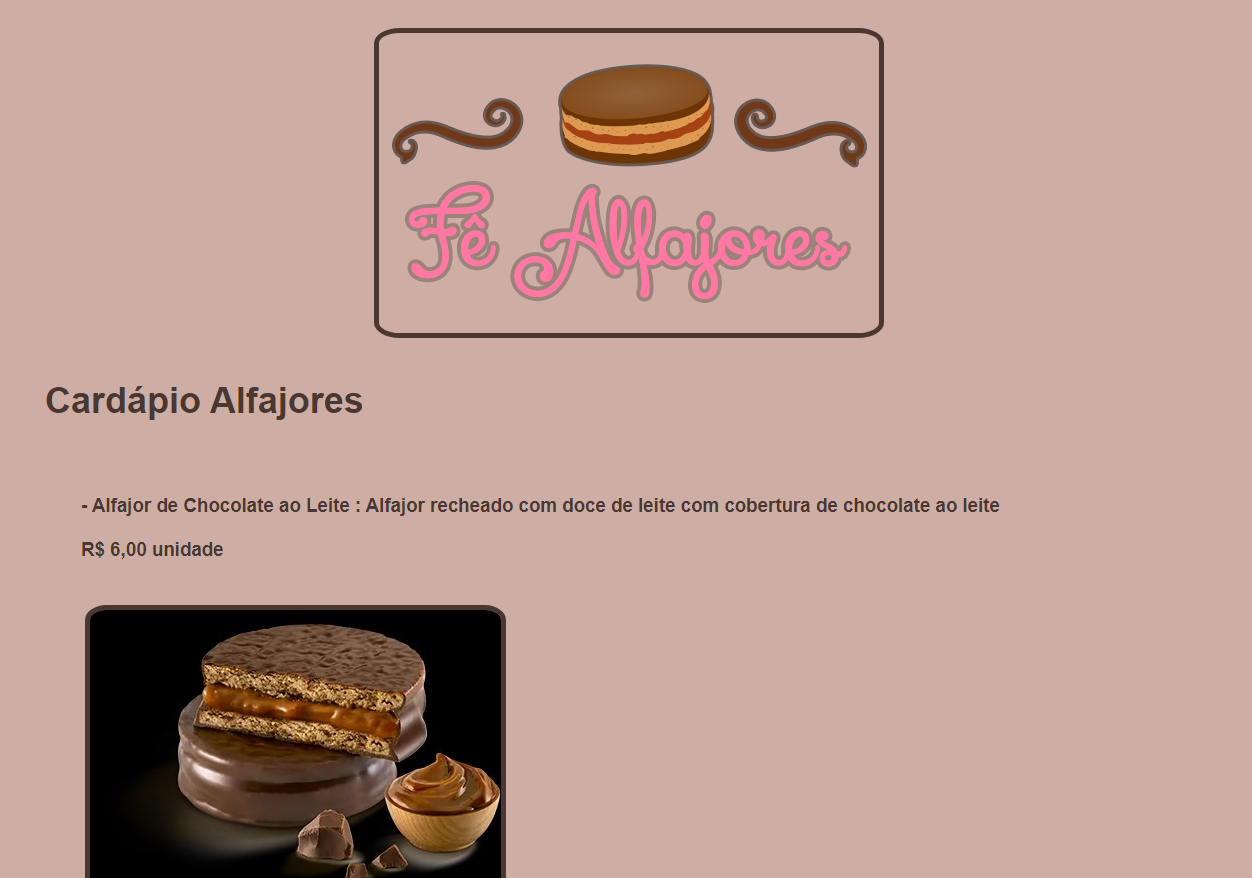
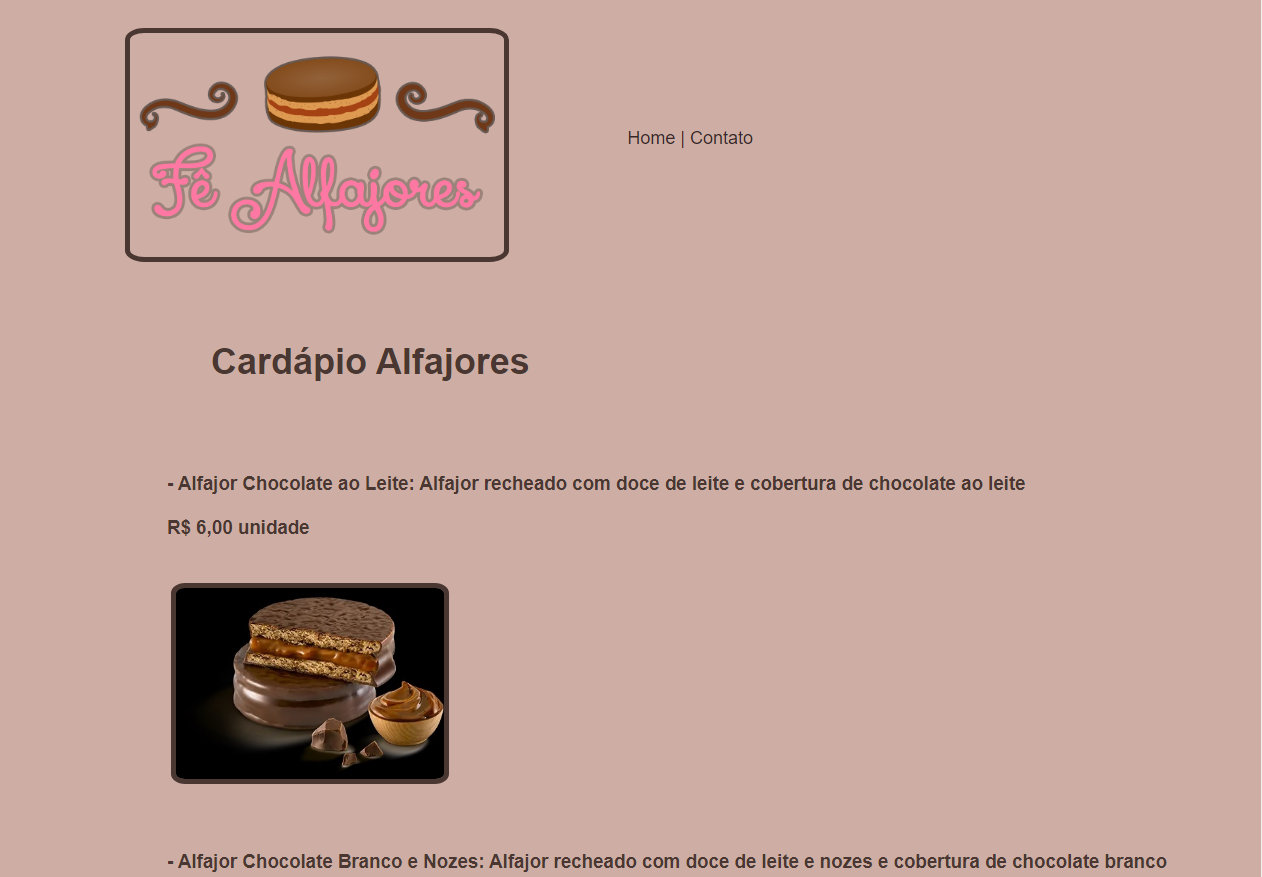
Add files via upload

Changed region(s): [[0.0623, 0.5234, 0.9345, 1.0], [0.0312, 0.0308, 0.7165, 0.4926], [0.9968, 0.0, 1.0, 1.0]]

diff --git a/projetos.html b/projetos.html
@@ -11,7 +11,7 @@
     <body>
         <nav>
             <ul> 
-                <li><a href="index.html">Sobre mim</a></li>
+                <li><a href="index.html">Home</a></li>
                 <li><a href="projetos.html">Projetos</a></li>
                 <li><a href="contato.html">Contato</a></li>
             </ul>
@@ -25,22 +25,31 @@
                 <h1>Meus Projetos</h1>
                 
         </header>
-        <br/>
+        <br>
         <main>
                 <section>
                     <h3>- Desafio do Cardápio</h3>
-                    <p>Site de um cardápio contendo os produtos, sua descrição e seu valor.<br>HTML5, CSS3</p>
+                    <p>Site de um cardápio com os produtos, descrição e valor.<br>HTML5, CSS3</p>
                     <a href="https://fevitorio.github.io/Cardapio/">
-                    <img src="./img/telacardapio.png"></img>  </a> 
+                    <img src="./img/telacardapio.png"></img></a> 
                     
                 </section>
+                <br/>
+                <br>
+                <section>
+                    <h3>- Engenharia</h3>
+                    <p>Site para empresa de Engenharia Civil. <br> HTML5, CSS3, JavaScript</p>
+                    <a href="https://fevitorio.github.io/eng.gustavovitorio/">
+                    <img src="./img/telaeng.png"></img></a> 
+                    
+                </section> 
                 <br/>
                 <br>
                 <section>
                     <h3>- Loja de Roupas</h3>
                     <p>Site para loja de roupas fitness para treino. <br> HTML5, CSS3, JavaScript</p>
                     <a href="https://fevitorio.github.io/Fitness/">
-                    <img src="./img/telafitness.png"></img>  </a> 
+                    <img src="./img/telafitness.png"></img></a> 
                     
                 </section> 
                 

diff --git a/style.css b/style.css
@@ -1,7 +1,8 @@
 body {
     color: black;
     background-color: rgb(252, 229, 240);
-    font-family: 'Trebuchet MS', 'Lucida Sans Unicode', 'Lucida Grande', 'Lucida Sans', Arial, sans-serif ;
+    font-family: Arial, Helvetica, sans-serif;
+    font-size: 18px;
 }
 
 ul {
@@ -23,7 +24,7 @@ header img {
     width: 150px;
     height: 150px;
     border-radius: 10%;
-    border: 3px solid rgb(206, 48, 145);
+    border: 3px solid rgb(211, 131, 180);
 }
 
 .center {
@@ -32,7 +33,7 @@ header img {
 }
 
 h1 {
-    color: rgb(206, 48, 145);
+    color: rgb(211, 131, 180);
 }
 
 footer img {
@@ -59,25 +60,25 @@ footer p {
 }
 
 nav a:hover {
-    color:rgb(206, 48, 145);
+    color:rgb(211, 131, 180);
 }
 
 input{
     width: 100%;
     padding: 8px 0px;
     margin: 8px 0px;
-    border-radius: 3px;
+    border-radius: 1px;
 }
 
 input[type=text] {
     height: 100px;
-    border-radius: 3px;
+    border-radius: 1px;
   
 }
 
 button {
     background-color: rgb(236, 173, 223);
-    border-radius: 3px;
+    border-radius: 1px;
     border: 1px solid;
     width: 100px;
     height: 30px;
@@ -88,7 +89,7 @@ button {
 section img {
     width: 350px;
     height: 250px;
-    border-radius: 0%;
+    border-radius: 5%;
     border: 3px solid black;
 
 }

diff --git a/index.html b/index.html
@@ -11,7 +11,7 @@
     <body>
         <nav>
             <ul> 
-                <li><a href="index.html">Sobre mim</a></li>
+                <li><a href="index.html">Home</a></li>
                 <li><a href="projetos.html">Projetos</a></li>
                 <li><a href="contato.html">Contato</a></li>
             </ul>
@@ -28,7 +28,7 @@
                 <h2>Desenvolvedora Web</h2>
            
         </header>
-        <br/>
+        
         <main>
                 <section>
                     <h3>Sobre mim</h3>

diff --git a/contato.html b/contato.html
@@ -10,7 +10,7 @@
 <body>
         <nav>
             <ul> 
-                <li><a href="index.html">Sobre mim</a></li>
+                <li><a href="index.html">Home</a></li>
                 <li><a href="projetos.html">Projetos</a></li>
                 <li><a href="contato.html">Contato</a></li>
             </ul>

diff --git a/thanks.html b/thanks.html
@@ -10,7 +10,7 @@
 <body>
         <nav>
             <ul> 
-                <li><a href="index.html">Sobre mim</a></li>
+                <li><a href="index.html">Home</a></li>
                 <li><a href="projetos.html">Projetos</a></li>
                 <li><a href="contato.html">Contato</a></li>
             </ul>
